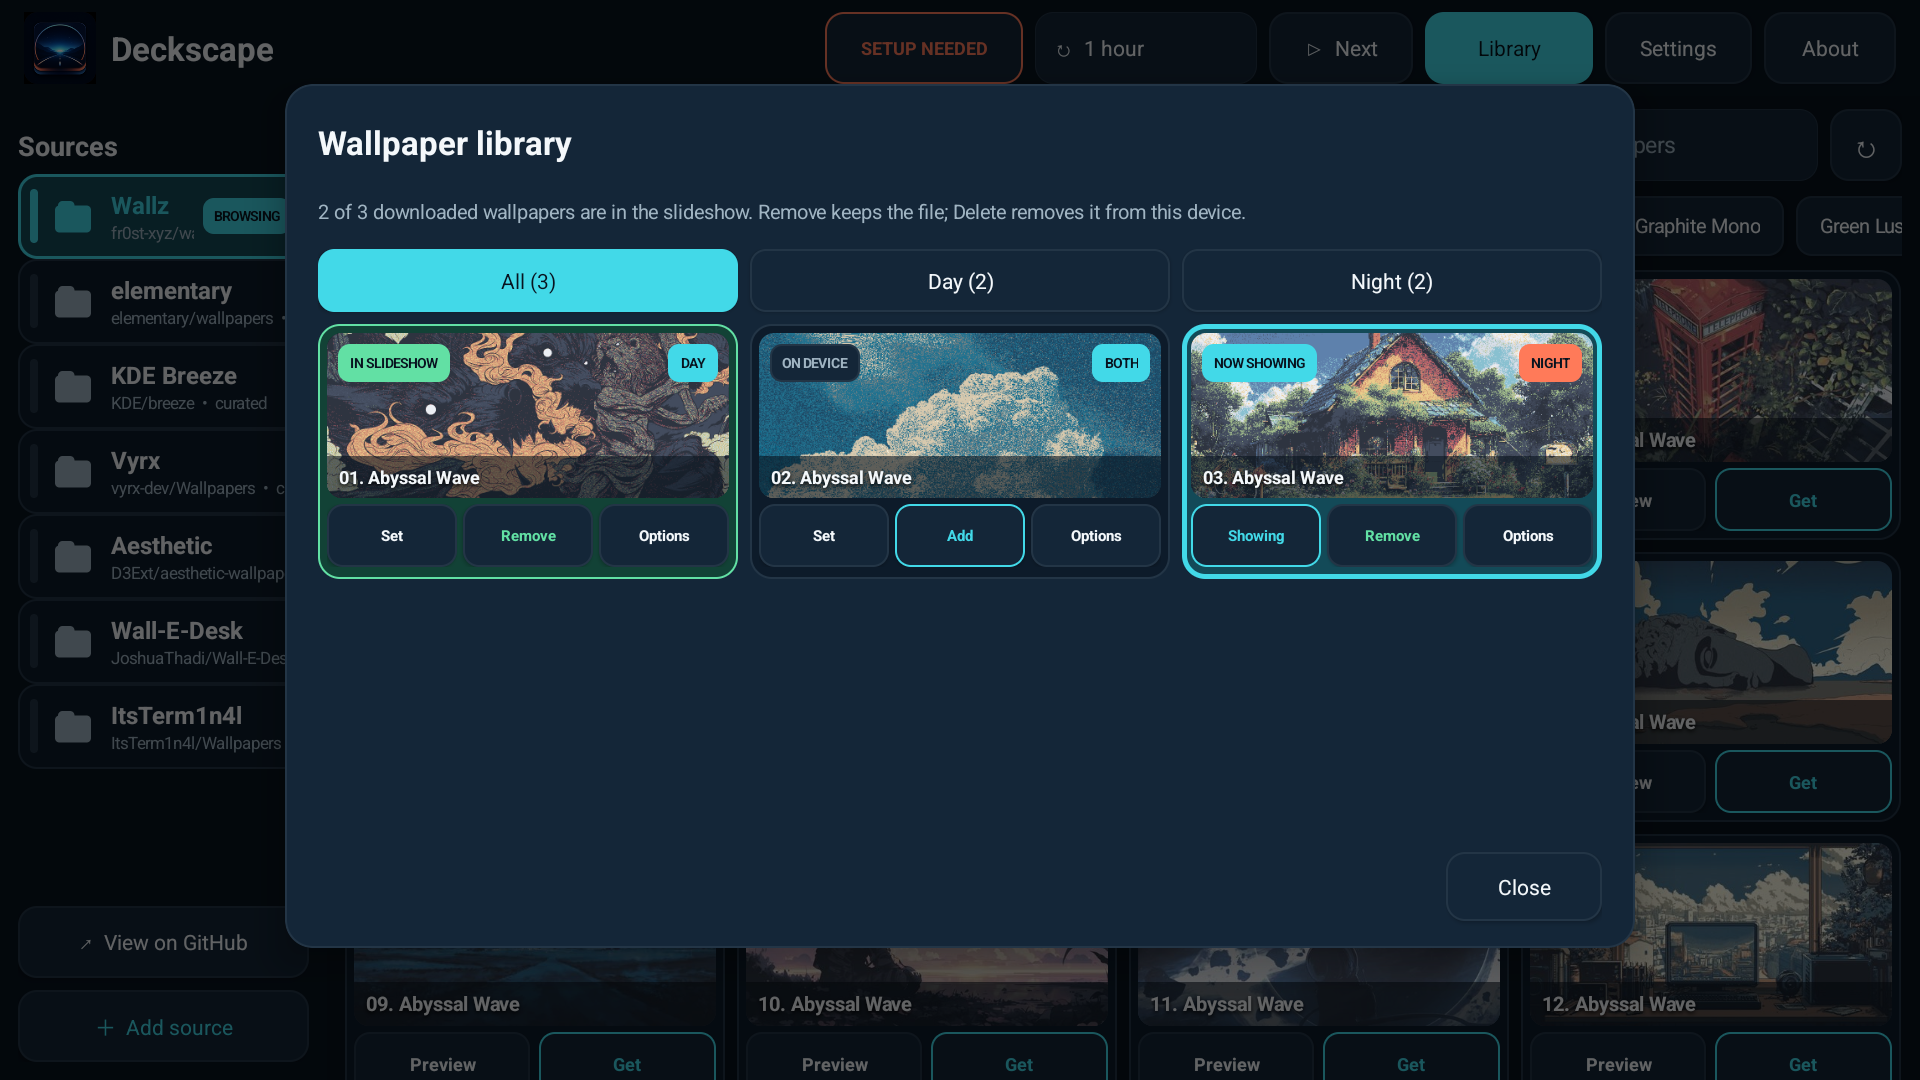
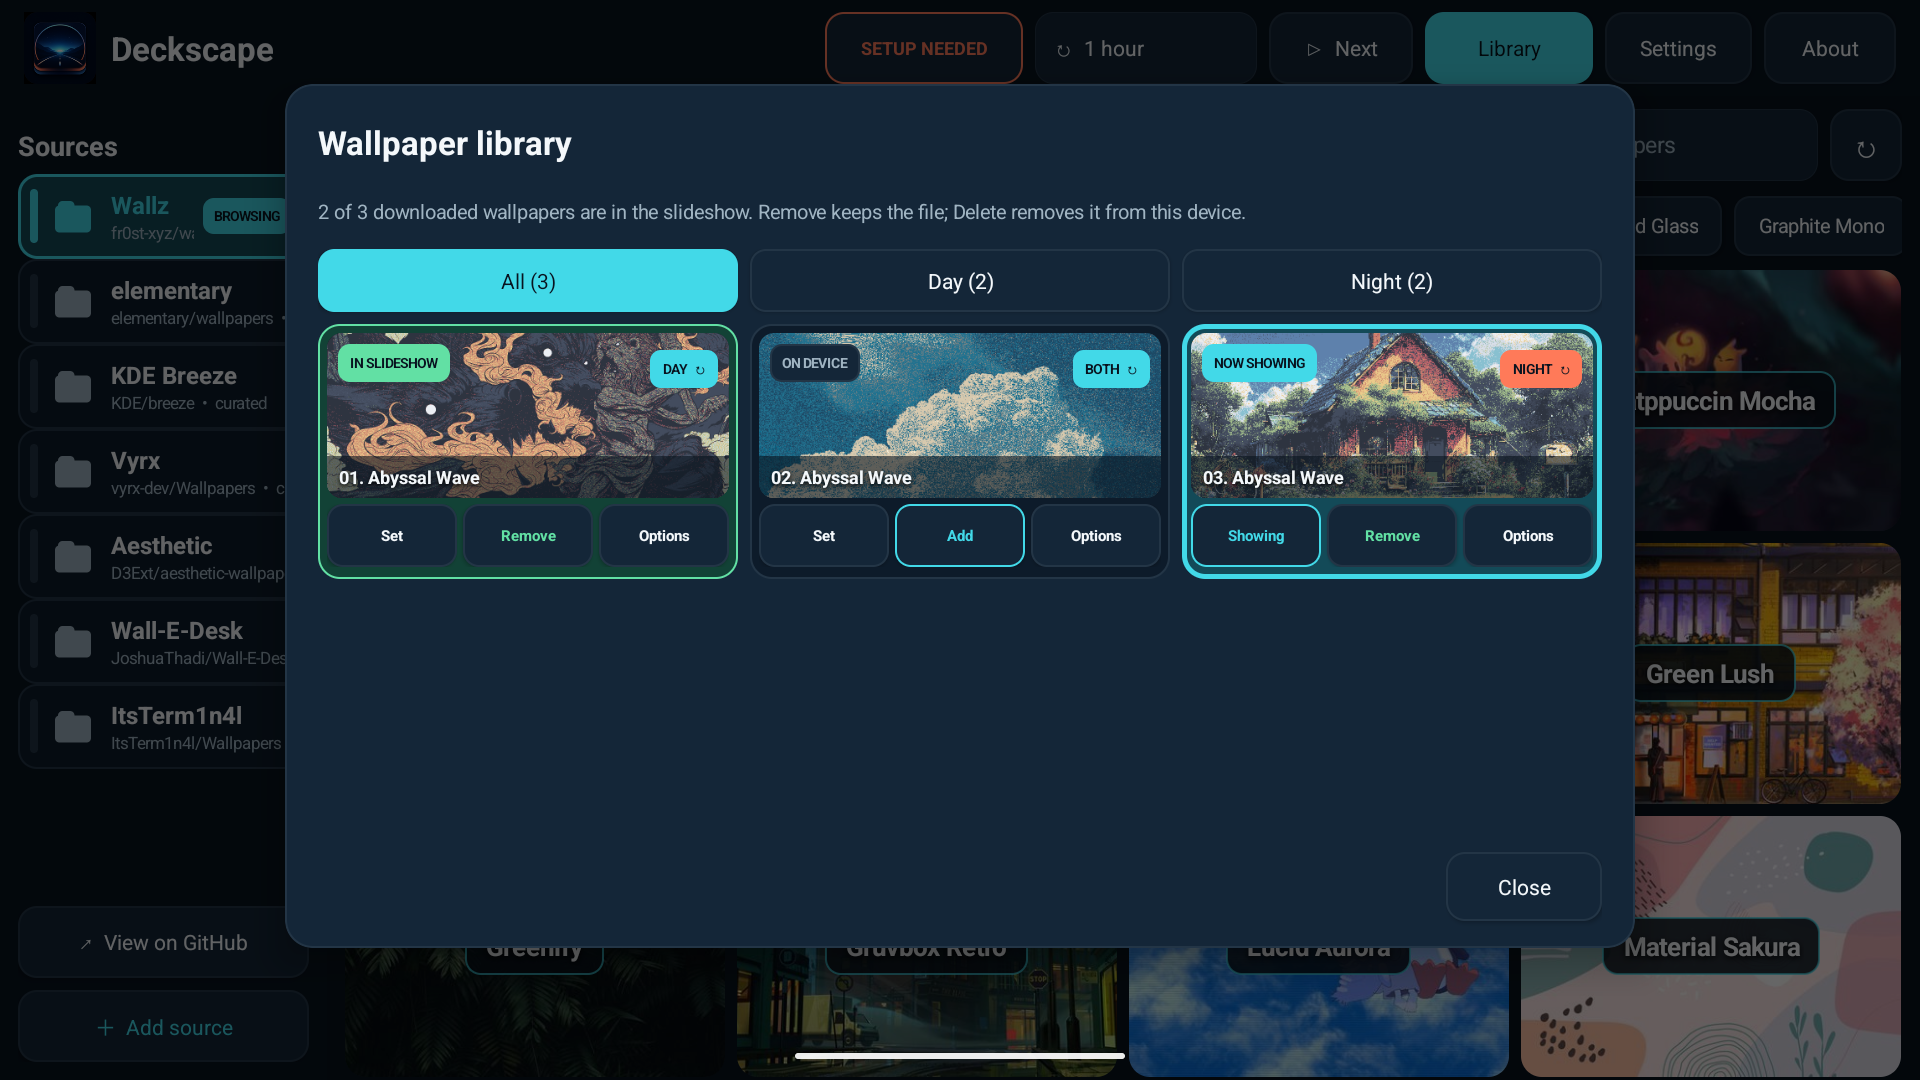
Add quick day and night role cycling

diff --git a/app/src/main/java/uk/darkbyte/deckscape/SlideshowGridAdapter.java b/app/src/main/java/uk/darkbyte/deckscape/SlideshowGridAdapter.java
@@ -26,6 +26,8 @@ final class SlideshowGridAdapter extends BaseAdapter {
 
         void onSetIncluded(File file, boolean included);
 
+        void onCycleRole(File file, DayNightRole currentRole);
+
         void onOptions(File file);
     }
 
@@ -172,17 +174,26 @@ final class SlideshowGridAdapter extends BaseAdapter {
         imageFrame.addView(badge, badgeParams);
 
         TextView roleBadge = Ui.title(context,
-                profile.role == DayNightRole.BOTH ? "BOTH" : profile.role.name(), 9);
+                (profile.role == DayNightRole.BOTH ? "BOTH" : profile.role.name()) + "  ↻", 9);
         roleBadge.setTextColor(Ui.NAV);
         roleBadge.setGravity(Gravity.CENTER);
         roleBadge.setPadding(Ui.dp(context, 8), 0, Ui.dp(context, 8), 0);
         roleBadge.setBackground(Ui.rounded(profile.role == DayNightRole.NIGHT
                         ? Ui.CORAL : Ui.CYAN, Ui.dp(context, 7)));
-        FrameLayout.LayoutParams roleParams = new FrameLayout.LayoutParams(
+        FrameLayout roleTarget = new FrameLayout(context);
+        roleTarget.setClickable(true);
+        roleTarget.setFocusable(true);
+        roleTarget.setContentDescription("Change " + WallpaperStore.displayName(file)
+                + " from " + profile.role.label + " to " + profile.role.next().label);
+        roleTarget.setOnClickListener(view -> listener.onCycleRole(file, profile.role));
+        FrameLayout.LayoutParams roleBadgeParams = new FrameLayout.LayoutParams(
                 ViewGroup.LayoutParams.WRAP_CONTENT, Ui.dp(context, 25),
-                Gravity.TOP | Gravity.END);
-        roleParams.setMargins(0, Ui.dp(context, 7), Ui.dp(context, 7), 0);
-        imageFrame.addView(roleBadge, roleParams);
+                Gravity.CENTER_VERTICAL | Gravity.END);
+        roleTarget.addView(roleBadge, roleBadgeParams);
+        FrameLayout.LayoutParams roleTargetParams = new FrameLayout.LayoutParams(
+                Ui.dp(context, 96), Ui.dp(context, 48), Gravity.TOP | Gravity.END);
+        roleTargetParams.setMargins(0, 0, Ui.dp(context, 7), 0);
+        imageFrame.addView(roleTarget, roleTargetParams);
 
         TextView title = Ui.title(context, WallpaperStore.displayName(file), 12);
         title.setSingleLine(true);

diff --git a/app/src/main/java/uk/darkbyte/deckscape/MainActivity.java b/app/src/main/java/uk/darkbyte/deckscape/MainActivity.java
@@ -949,6 +949,20 @@ public final class MainActivity extends Activity {
             }
 
             @Override
+            public void onCycleRole(File file, DayNightRole currentRole) {
+                DayNightRole nextRole = currentRole.next();
+                WallpaperProfileStore profiles = new WallpaperProfileStore(MainActivity.this);
+                profiles.put(file, profiles.get(file).withRole(nextRole));
+                boolean scheduleDisabled = dayNightSettings.disableIfIncomplete();
+                refreshHolder[0].run();
+                String name = WallpaperStore.displayName(file);
+                setStatus(name + " is now " + nextRole.label + ".");
+                Toast.makeText(MainActivity.this, nextRole.label,
+                        Toast.LENGTH_SHORT).show();
+                if (scheduleDisabled) showScheduleDisabledMessage();
+            }
+
+            @Override
             public void onOptions(File file) {
                 showWallpaperOptions(file, refreshHolder[0]);
             }

diff --git a/app/src/main/java/uk/darkbyte/deckscape/DayNightRole.java b/app/src/main/java/uk/darkbyte/deckscape/DayNightRole.java
@@ -17,6 +17,19 @@ enum DayNightRole {
                 || (this == NIGHT && phase == DayPhase.NIGHT);
     }
 
+    /** Returns the next role used by the Library's quick-cycle control. */
+    DayNightRole next() {
+        switch (this) {
+            case BOTH:
+                return DAY;
+            case DAY:
+                return NIGHT;
+            case NIGHT:
+            default:
+                return BOTH;
+        }
+    }
+
     static DayNightRole parse(String value) {
         try {
             return value == null ? BOTH : valueOf(value);

diff --git a/app/src/test/java/uk/darkbyte/deckscape/DayNightRoleTest.java b/app/src/test/java/uk/darkbyte/deckscape/DayNightRoleTest.java
@@ -1,0 +1,15 @@
+package uk.darkbyte.deckscape;
+
+import org.junit.Test;
+
+import static org.junit.Assert.assertEquals;
+
+/** Covers the deterministic role order used by the Library's quick control. */
+public final class DayNightRoleTest {
+    @Test
+    public void nextCyclesThroughBothDayAndNight() {
+        assertEquals(DayNightRole.DAY, DayNightRole.BOTH.next());
+        assertEquals(DayNightRole.NIGHT, DayNightRole.DAY.next());
+        assertEquals(DayNightRole.BOTH, DayNightRole.NIGHT.next());
+    }
+}

diff --git a/docs/ARCHITECTURE.md b/docs/ARCHITECTURE.md
@@ -107,7 +107,10 @@ or rotation. **Set** removes the exclusion, updates the current filename and a
 manual-override flag, and does not remove other files. The Library panel reads
 the same state, generates bounded local previews through the shared preview
 cache, and filters its view by stored Both/Day/Night roles. Both-role files
-appear in each scheduled view without being duplicated on disk.
+appear in each scheduled view without being duplicated on disk. Each Library
+role badge is backed by a 48dp focusable touch target and cycles through the
+three roles in a deterministic order; saving triggers the same group refresh
+and incomplete-schedule safety check as the full Options panel.
 
 When Day & Night is enabled, `DayNightSettings` filters included files by their
 roles. Both period pools must remain non-empty. `WallpaperEngineService`

diff --git a/CHANGELOG.md b/CHANGELOG.md
@@ -21,6 +21,8 @@ versioning, and public Android `versionCode` values increase once per release.
 - **Get** now downloads to the on-device Library only. It does not select the
   wallpaper or add it to rotation; **Set** is the explicit include-and-show
   action in the catalogue, Preview, and Library.
+- Tapping a Library card's role badge now cycles **Both → Day → Night → Both**
+  and refreshes the grouped counts immediately.
 - Automatic sunrise/sunset now requests a reliable foreground GPS fix on older
   head units, allows up to one minute for a cold fix, and exposes an immediate
   cancel action while searching.

diff --git a/README.md b/README.md
@@ -160,6 +160,10 @@ slideshow membership, and identify the current image. Its **All**, **Day**, and
 **Both** images intentionally appear in Day and Night. The adjacent status pill
 opens Deckscape's one-time activation guide when setup is needed.
 
+For quick assignment, tap a wallpaper's role badge in Library to cycle
+**Both → Day → Night → Both**. Use **Options** when you want to choose a role
+directly alongside its display settings.
+
 ## Display and Day & Night options
 
 Open **Options** on any downloaded wallpaper to choose how it fills the screen.
